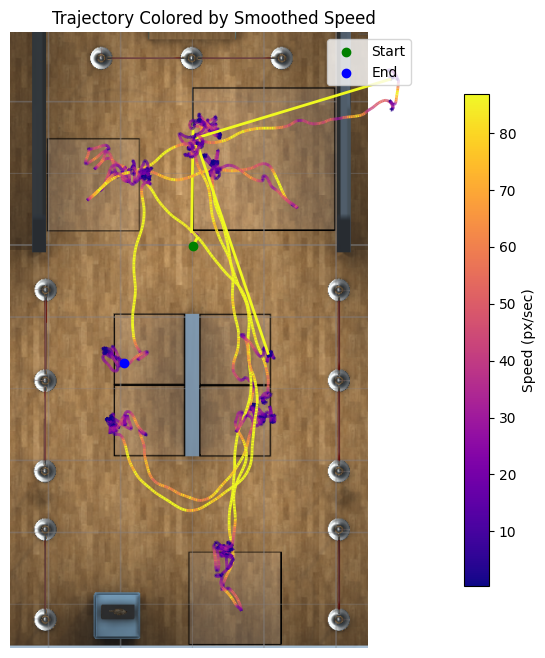
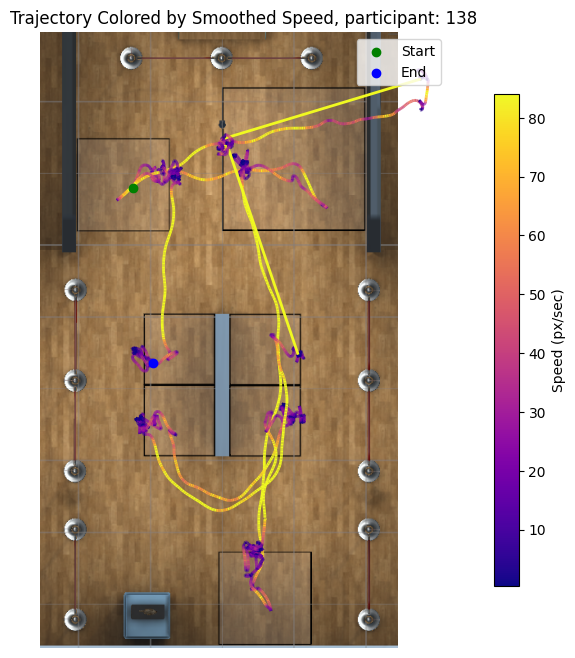
new plots

diff --git a/Scripts/participant_data.py b/Scripts/participant_data.py
@@ -763,10 +763,10 @@ class MuseumVRParticipantData(BaseParticipantData):
         emotions_df_path = os.path.join(self.data_path, f"emotions_df.pkl")
         try:
             emotions_df.to_pickle(emotions_df_path)
-            logging.debug(f"Saved emotions_df to pickle: {emotions_df_path} for participant {self.participant_id}")
+            logging.debug(f"Saved emotions_df to pickle: {emotions_df_path}")
         except Exception as e:
             logging.error(f"Error saving emotions_df pickle file: {str(e)}")
-            
+
         return emotions_df
 
     

diff --git a/Scripts/main.py b/Scripts/main.py
@@ -36,6 +36,8 @@ def main() -> None:
 
         plot_trajectory_over_image_dual_view(participant_data, r"Top views\museum_top_iso_grid.png", save_file=True
                                    ,sampling_rate=60, window_size=5, close_plot=False)
+        plot_trajectory_over_image(participant_data, r"Top views\museum_top_iso_grid.png", save_file=True
+                                   ,sampling_rate=60, window_size=5, close_plot=False)
         logging.info(f"Visualization for participant {participant_id} completed.")
 
 